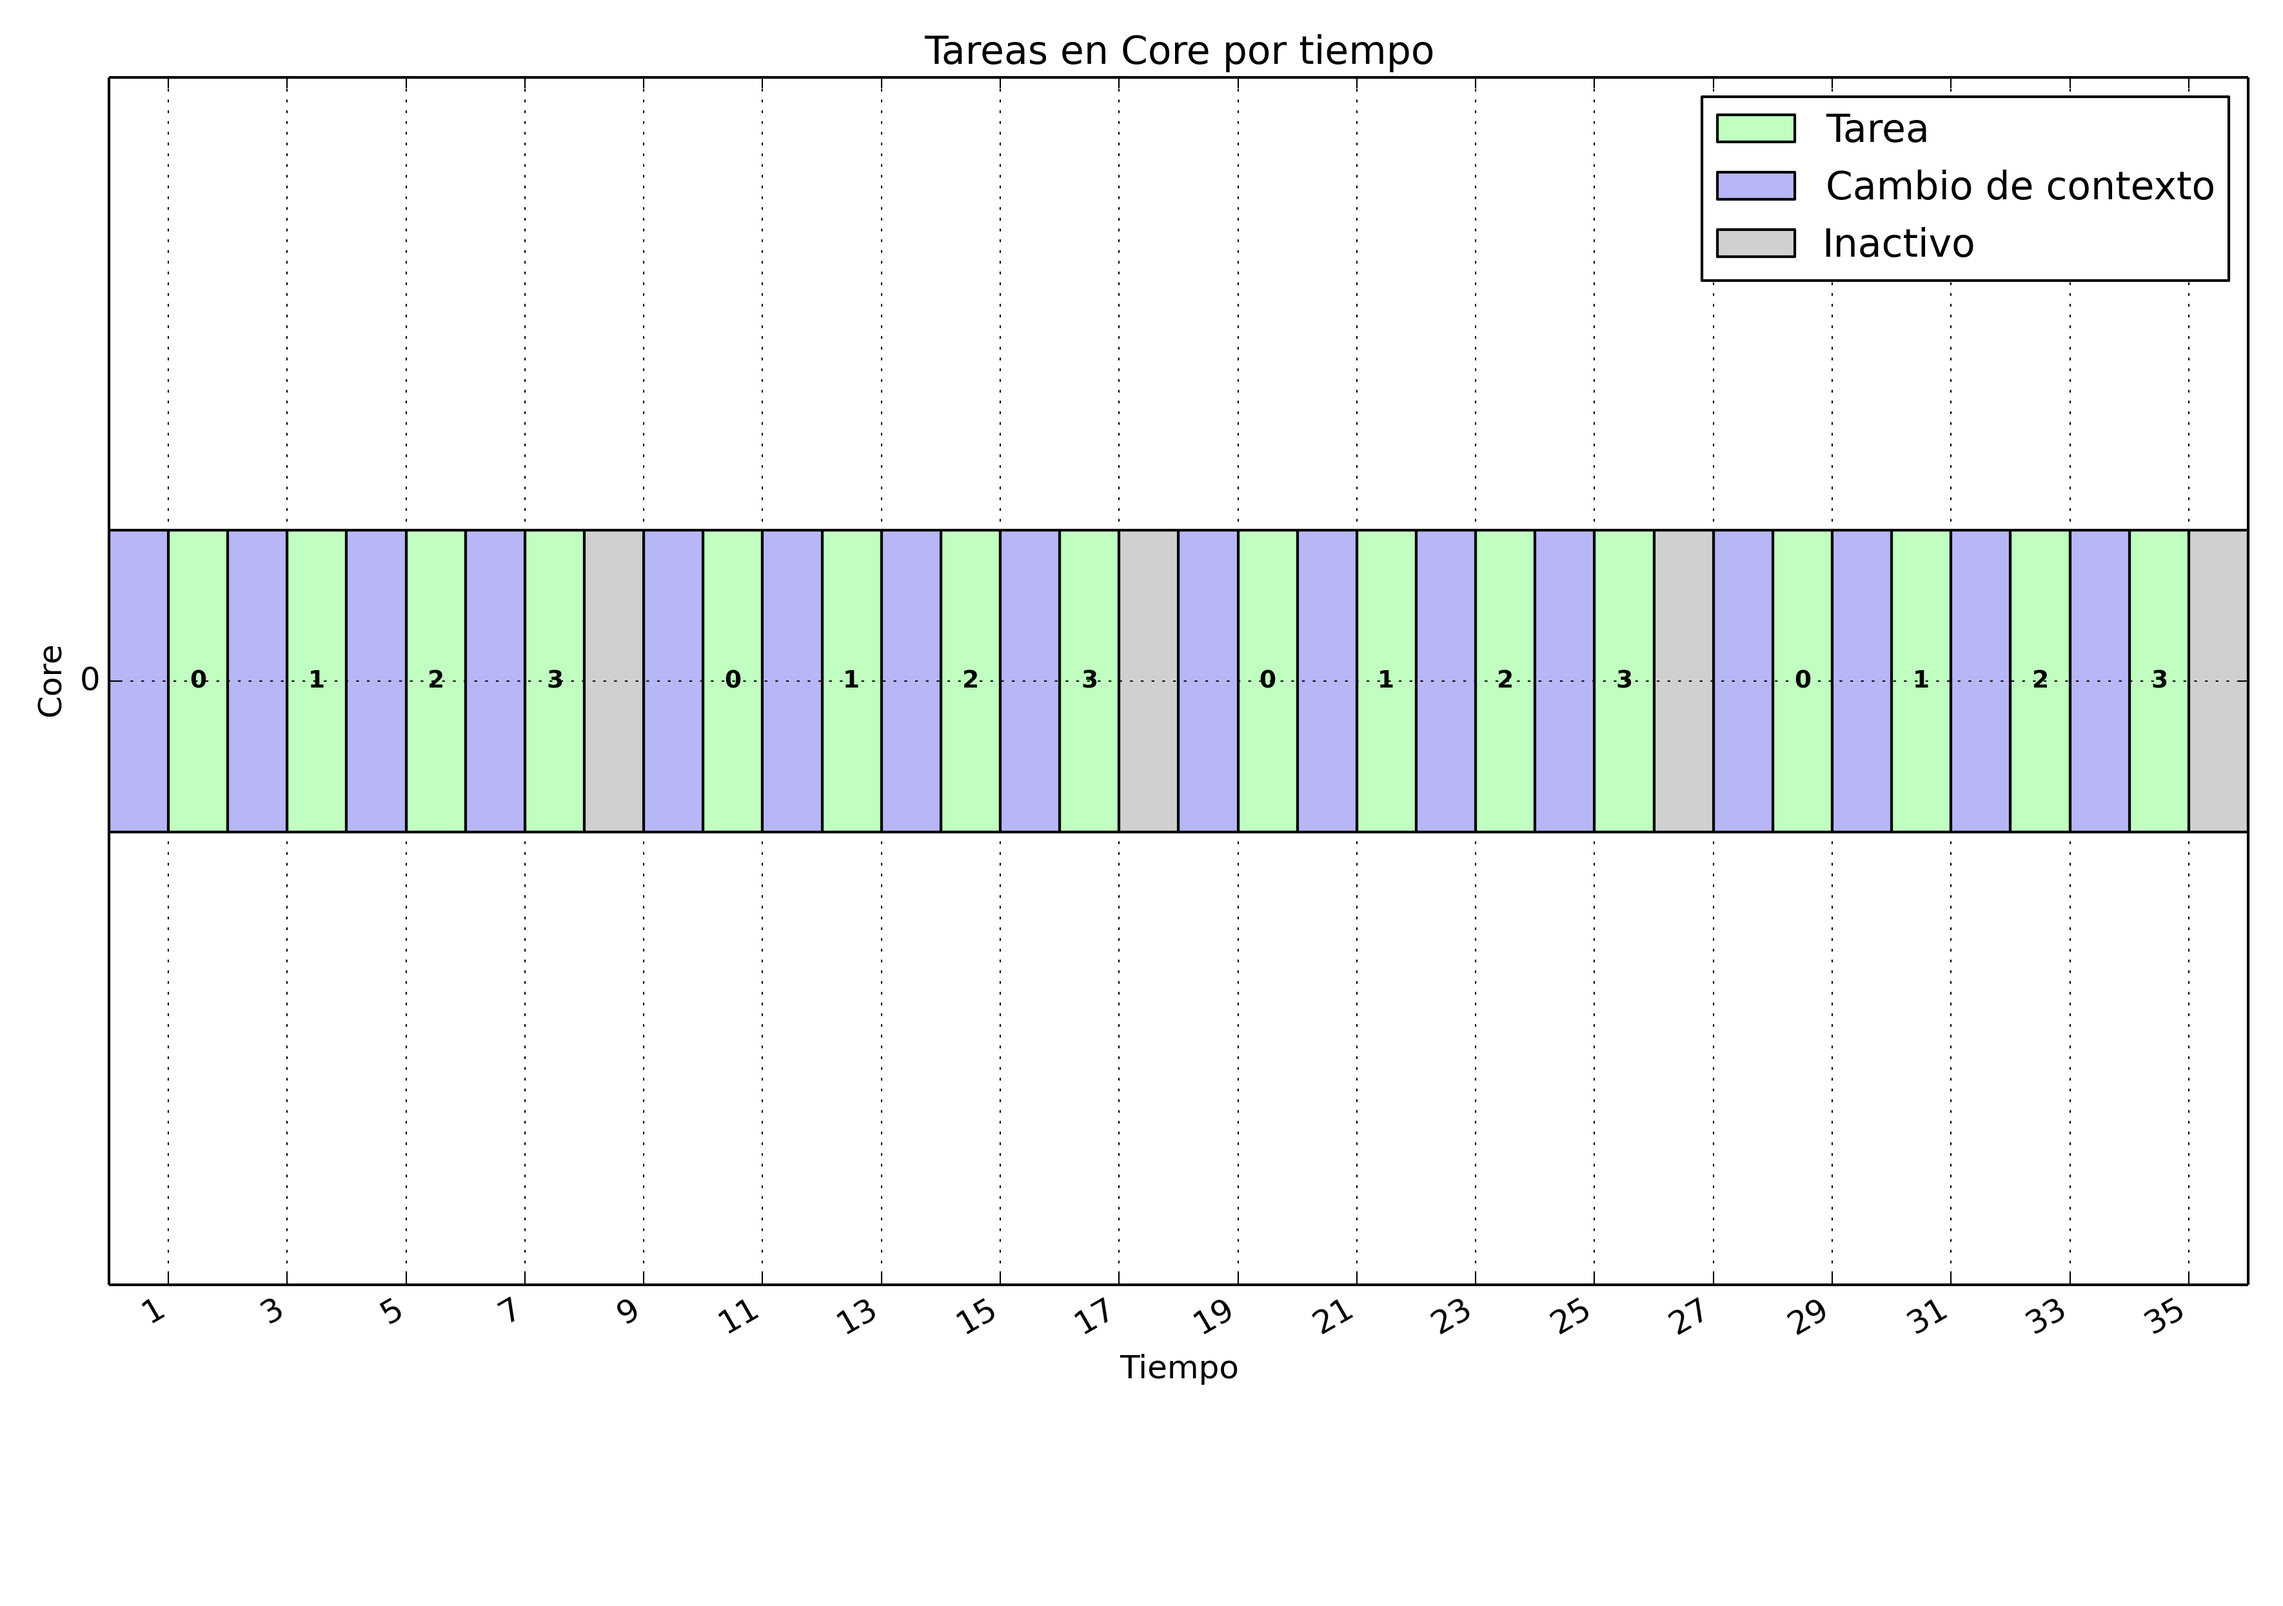
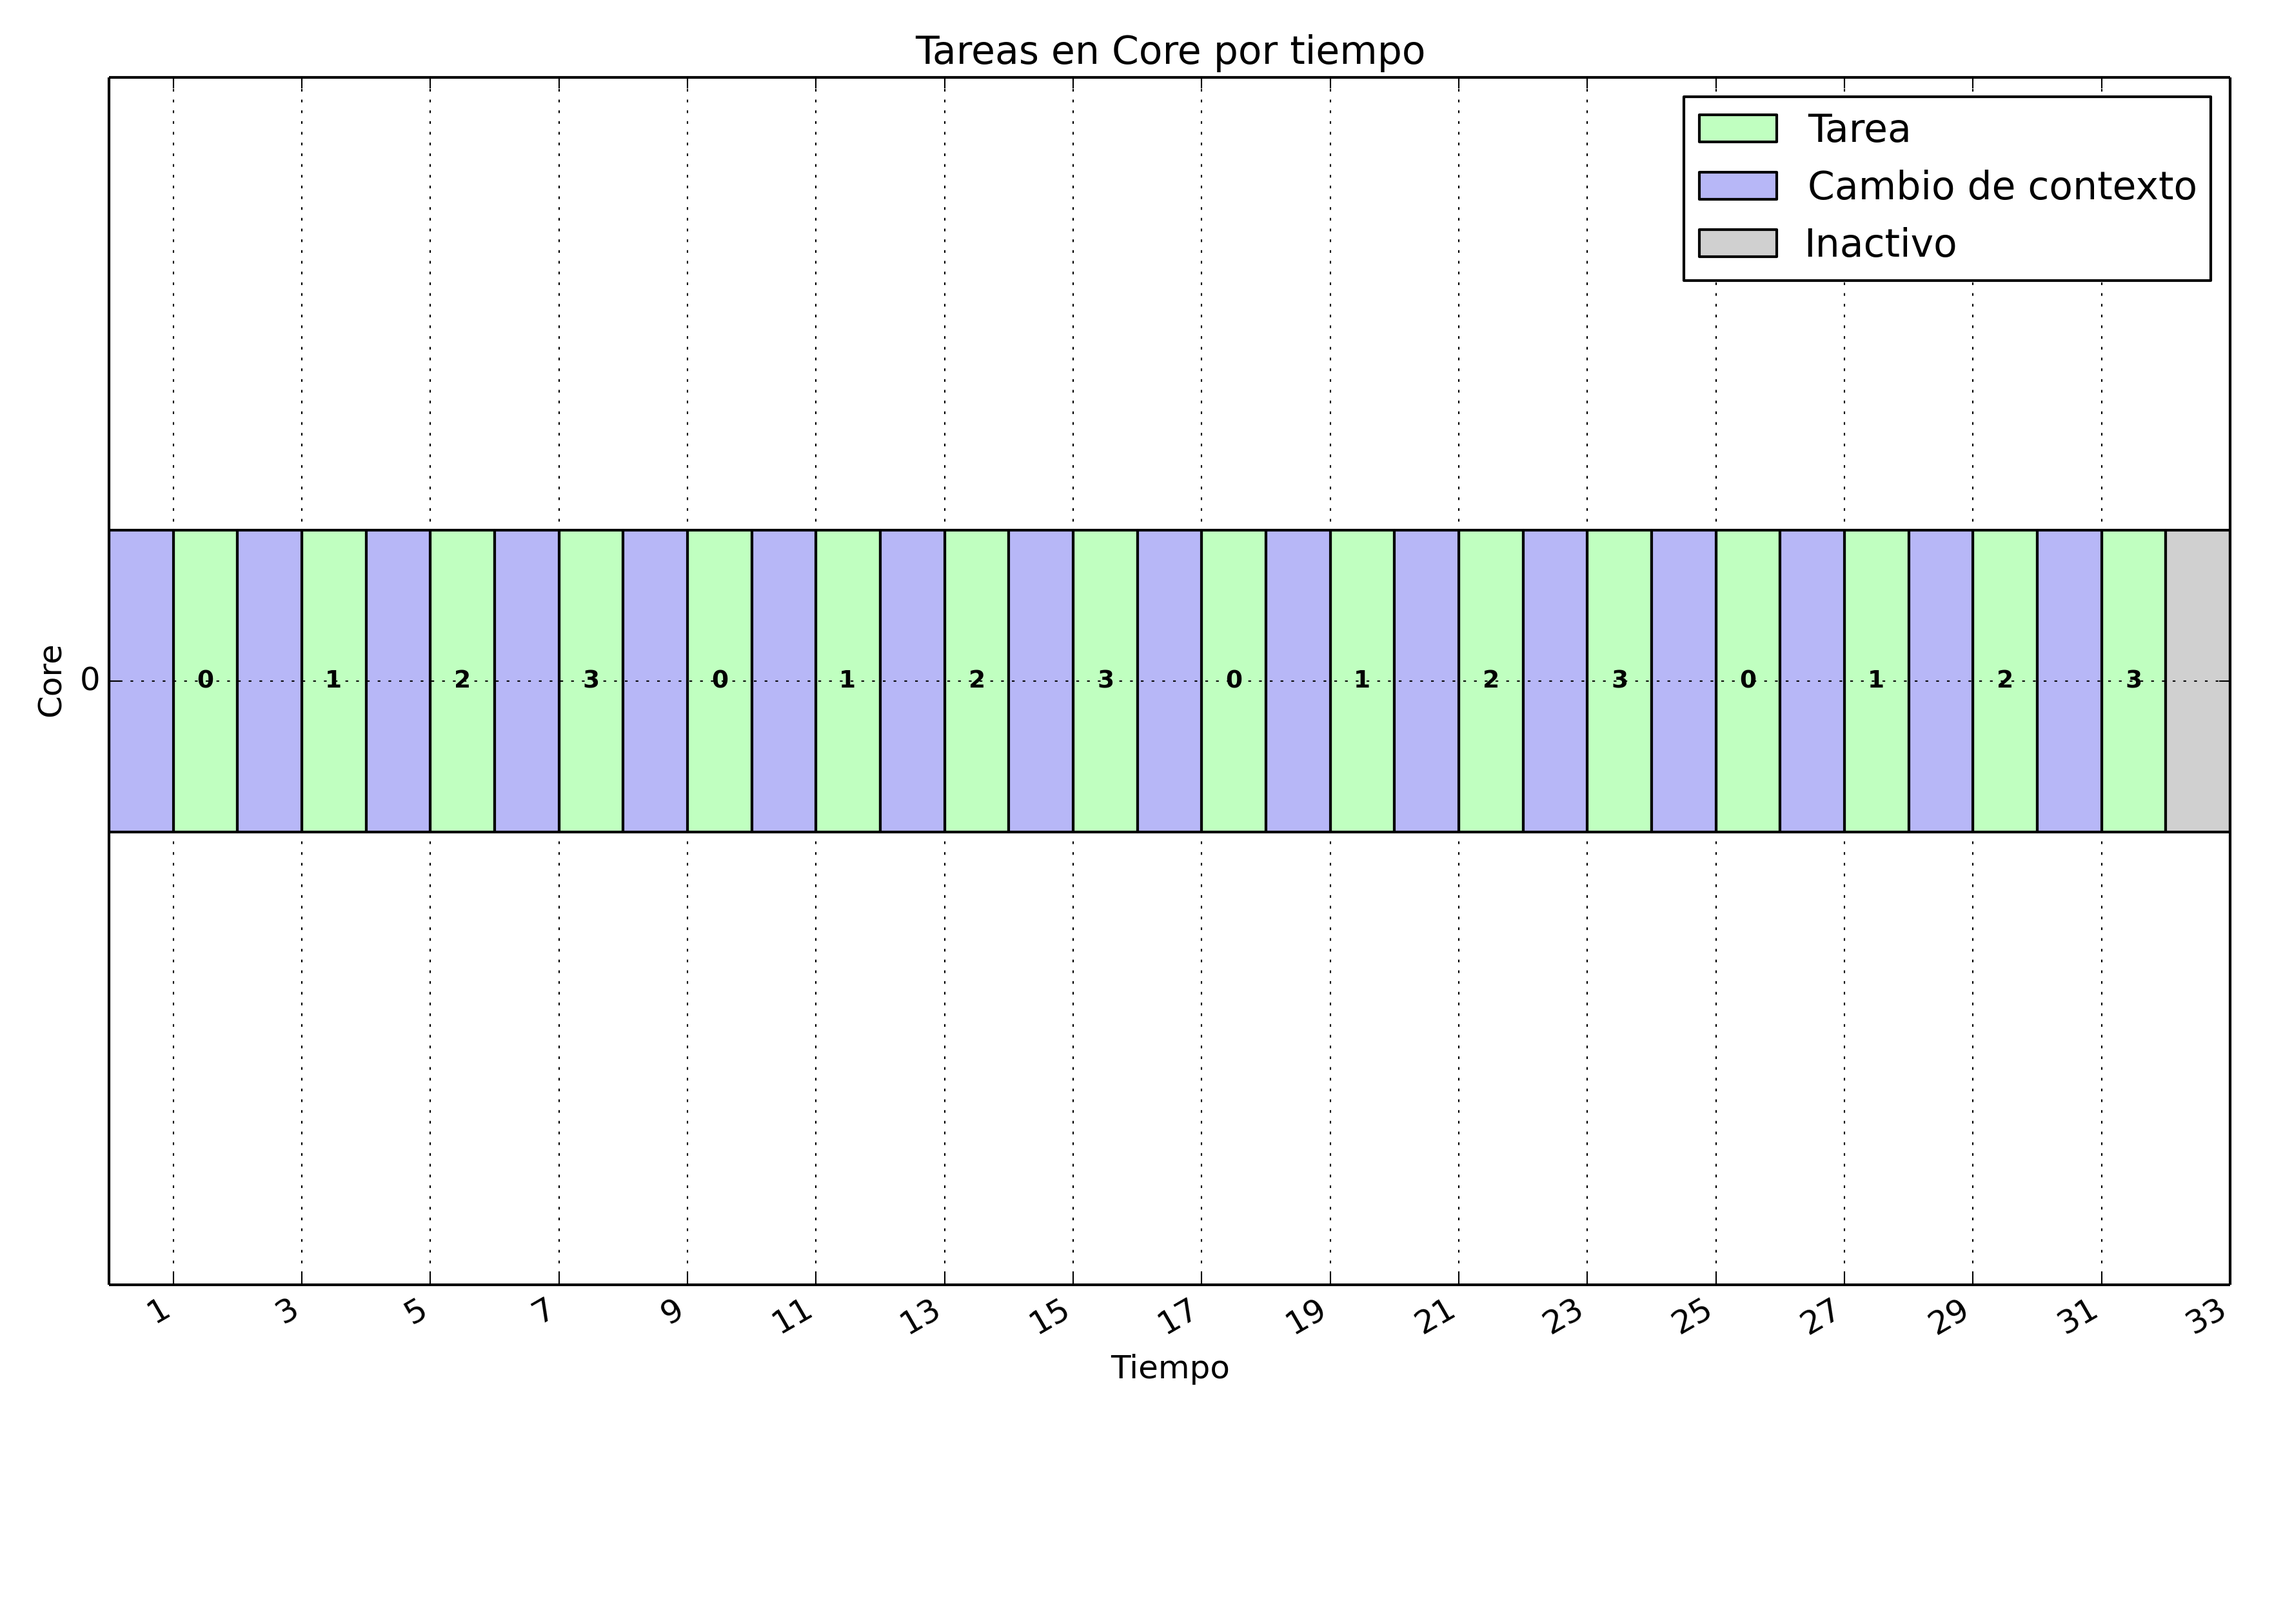
Bug fixes. Ejercicio 5

diff --git a/solucion/src/sched_rr.cpp b/solucion/src/sched_rr.cpp
@@ -8,10 +8,10 @@ using namespace std;
 
 SchedRR::SchedRR(vector<int> argn) {
 	// Round robin recibe la cantidad de cores y sus cpu_quantum por parámetro
+
 }
 
 SchedRR::~SchedRR() {
-
 }
 
 
@@ -20,6 +20,7 @@ void SchedRR::load(int pid) {
 }
 
 void SchedRR::unblock(int pid) {
+
 	q.push(pid); // vuelve a la cola de ready
 }
 
@@ -45,7 +46,9 @@ int SchedRR::tick(int cpu, const enum Motivo m) {
 		if (!q.empty()) {
 			int sig = q.front(); q.pop();
 			int des = current_pid(cpu);
-			q.push(des); // vuelvo a encolar el proceso desalojado
+			if (des != IDLE_TASK) {
+				q.push(des); // vuelvo a encolar el proceso desalojado
+			}
 			return sig;
 		} else {
 			return current_pid(cpu);

diff --git a/solucion/src/sched_rr2.cpp b/solucion/src/sched_rr2.cpp
@@ -77,7 +77,9 @@ int SchedRR2::tick(int cpu, const enum Motivo m) {
 		if (!qs[cpu].empty()) {
 			int sig = qs[cpu].front(); qs[cpu].pop();
 			int des = current_pid(cpu);
-			qs[cpu].push(des); // vuelvo a encolar el proceso desalojado
+			if (des != IDLE_TASK) {
+				qs[cpu].push(des); // vuelvo a encolar el proceso desalojado
+			}
 			return sig;
 		} else {
 			return current_pid(cpu);
